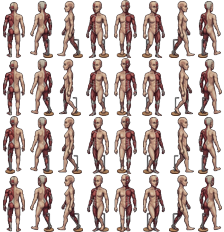
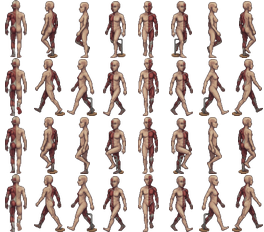
美術重繪：人面犬／花子／人體模型走路循環、校舍正面與東側外牆貼圖

diff --git a/bigprops.js b/bigprops.js
@@ -3,7 +3,7 @@
    bpFaceL(img, i, n, x, y, h)：x 方向的牆面（L 面，朝 +y＝面向鏡頭左下），第 i 條／共 n 條，貼在格子 (x,y) 的 L 面
    bpFaceR(img, i, n, x, y, h)：y 方向的牆面（R 面，朝 +x），圖片左邊＝靠鏡頭那端（y 大）
    ① 警衛室（第一章 31–34, 32–35）：assets/guard_f.png（南面接待窗）、guard_s.png（東面冷氣／公告欄），tools/guard_tex.py 產生 */
-loadImages(['guard_f', 'guard_s']);
+loadImages(['guard_f', 'guard_s', 'school_f']);
 
 function bpFaceL(img, i, n, x, y, h) {
   const sw = img.width / n, [X, Y] = iso(x, y + 1);
@@ -28,6 +28,7 @@ const bpInGuard = (x, y) => G.scene === 1 && x >= BP_GUARD.x0 && x <= BP_GUARD.x
 
 { const _w = typeof sceneWall === 'function' ? sceneWall : null;
   sceneWall = function (x, y) {
+    if (bpSchool(x, y)) return true;
     if (bpInGuard(x, y) && at(x, y) === '#' && IMG.guard_f && IMG.guard_s && (y === BP_GUARD.y1 || x === BP_GUARD.x1)) {
       const h = WALLH;
       if (y === BP_GUARD.y1) {
@@ -156,3 +157,26 @@ function bpBleach(o) {
     if (o.t === 'bleach' && G.scene === 1) { bpBleach(o); return true; }
     return _dp ? _dp(o, cx, cy, shaking) : false;
   }; }
+
+/* ③ 校舍外牆（第一章 正面 y=12、東側 x=38）：assets/school_f.png 8 格一循環（tools/guard_tex.py） */
+function bpSchool(x, y) {
+  if (G.scene !== 1 || !IMG.school_f || at(x, y) !== '#') return false;
+  const front = y === 12 && x >= 1 && x <= 38 && !['#', 'D'].includes(at(x, y + 1));
+  const east = x === 38 && y >= 1 && y <= 12 && !['#', 'D'].includes(at(x + 1, y));
+  if (!front && !east) return false;
+  const h = WALLH;
+  if (front) {
+    bpFaceL(IMG.school_f, (x - 1) % 8, 8, x, y, h);
+    const [a, b] = iso(x, y + 1), [c, d] = iso(x + 1, y + 1); poly([[a, b], [c, d], [c, d - h], [a, b - h]], 'rgba(0,0,0,.12)');
+    if (x === 26) {   // 正門上方的時鐘（原本 drawWall 畫的）
+      const [sx, sy] = iso(x + .5, y + 1); ctx.fillStyle = '#d8d2c0'; ctx.beginPath(); ctx.ellipse(sx, sy - 24, 5, 5, 0, 0, 7); ctx.fill();
+      ctx.strokeStyle = '#222'; ctx.lineWidth = 1; ctx.beginPath(); ctx.moveTo(sx, sy - 24); ctx.lineTo(sx - 3, sy - 25); ctx.moveTo(sx, sy - 24); ctx.lineTo(sx + 1, sy - 28); ctx.stroke();
+    }
+  }
+  if (east) {
+    bpFaceR(IMG.school_f, (12 - y + 3) % 8, 8, x, y, h);
+    const [a, b] = iso(x + 1, y + 1), [c, d] = iso(x + 1, y); poly([[a, b], [c, d], [c, d - h], [a, b - h]], 'rgba(0,0,0,.4)');
+  }
+  box(x, y, 1, 1, h, '#8d8475', null, null);
+  return true;
+}

diff --git a/index.html b/index.html
@@ -414,6 +414,6 @@ function _Ldom(root){const CJK=/[\u3000-\u30ff\u4e00-\u9fff\uff00-\uffef]/,INL=/
 <script src="coop.js?v=ea5f48ae"></script>
 <script src="lighting.js?v=1e791feb"></script>
 <script src="stealth.js?v=ba76b399"></script>
-<script src="bigprops.js?v=a18642af"></script>
+<script src="bigprops.js?v=bacc9ea6"></script>
 </body>
 </html>
